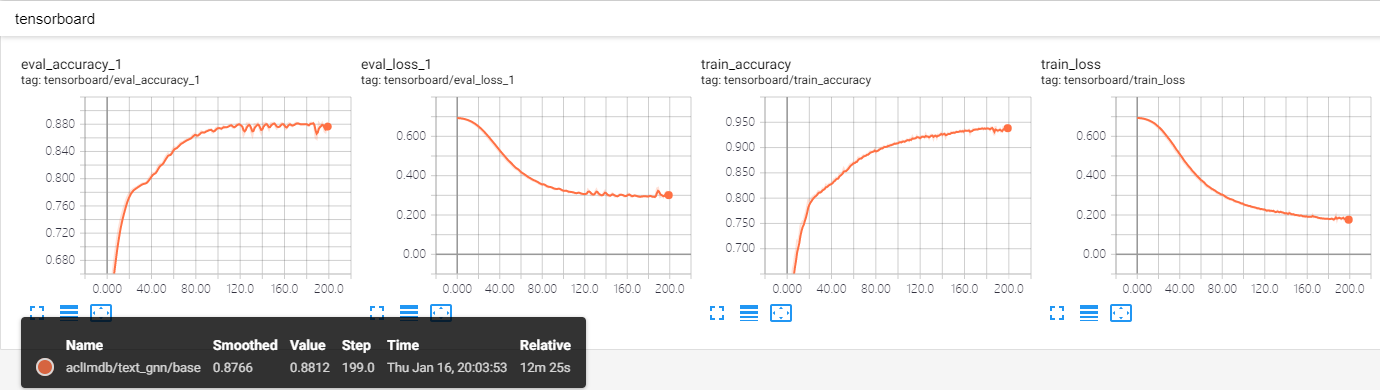
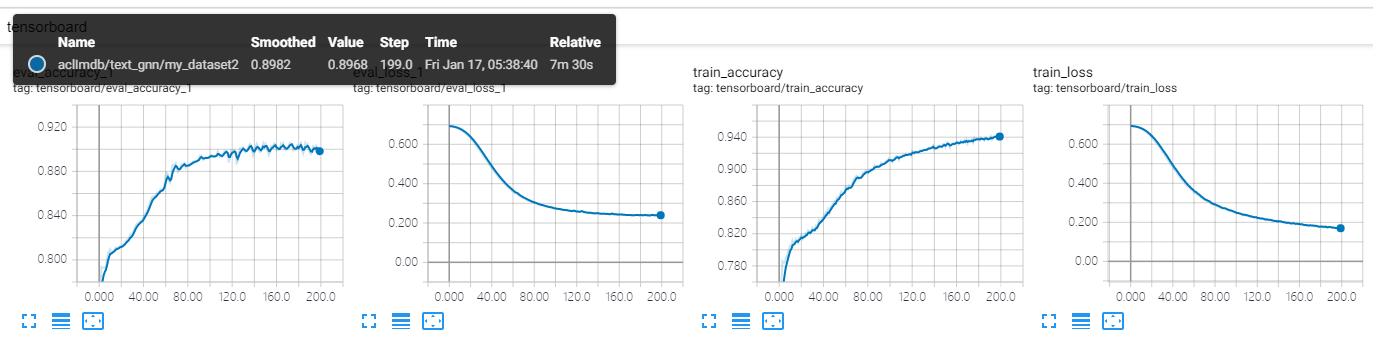
update test bug

diff --git a/build_gnn_en_dataset.py b/build_gnn_en_dataset.py
@@ -15,7 +15,7 @@ min_words_freq = 5  # to remove rare words
 train_scale = 0.9  # slect 90% training set
 window_size = 20  # word co-occurence with context windows
 dataset_fold = Path('/home/yf/dataset/{}/train'.format(dataset_name)).absolute()  # E:/Dataset/{}/train
-output_dir = Path('../dataset').absolute()
+output_dir = Path('dataset').absolute()
 output_path = output_dir / dataset_name
 output_path.mkdir(exist_ok=True, parents=True)
 
@@ -72,7 +72,7 @@ def build_adjacency_matrix(_dataset, num_label):
 
     y = np.zeros((_data_size, num_label))
     for i in range(_data_size):
-        y[i, dataset[i]['label_id']] = 1
+        y[i, _dataset[i]['label_id']] = 1
     return x, y, x_row, x_col, x_data
 
 
@@ -151,6 +151,7 @@ if __name__ == '__main__':
     save_adjacency_matrix(all_y, 'ally')
 
     # Doc word heterogeneous graph
+    # word co-occurence with context windows
     print('build window')
     windows = list()
     for item_ in dataset:
@@ -182,6 +183,7 @@ if __name__ == '__main__':
             for j in range(0, i):
                 word_i_id, word_j_id = vocabulary_dict[window[i]], vocabulary_dict[window[j]]
                 if word_i_id != word_j_id:
+                    # two orders
                     word_pair_count[(word_i_id, word_j_id)] += 1
                     word_pair_count[(word_j_id, word_i_id)] += 1
 

diff --git a/models/text_gnn.py b/models/text_gnn.py
@@ -60,6 +60,10 @@ class TextGNN:
             loss = tf.nn.softmax_cross_entropy_with_logits_v2(logits=gcn2, labels=self.labels)
             loss *= mask  # Mask the output of cross entropy loss
             loss = tf.reduce_mean(loss)
+            for _, var in vars1.items():
+                loss += self.weight_decay * tf.nn.l2_loss(var)
+            for _, var in vars2.items():
+                loss += self.weight_decay * tf.nn.l2_loss(var)
             self.loss = loss
 
         with tf.name_scope('accuracy'):
@@ -153,5 +157,11 @@ class TextGNN:
         feed_dict.update({self.labels: self.data_generator['y_test']})
         feed_dict.update({self.labels_mask: self.data_generator['mask_test']})
         feed_dict.update({self.keep_pro_tensor: 1.0})
-        result, labels = self.sess.run([self.target, self.label], feed_dict=feed_dict)
+        result = list()
+        labels = list()
+        result_, labels_, accuarcy = self.sess.run([self.target, self.label, self.accuracy], feed_dict=feed_dict)
+        for i in range(len(self.data_generator['mask_test'])):
+            if self.data_generator['mask_test'][i]:
+                result.append(result_[i])
+                labels.append(labels_[i])
         return result, labels

diff --git a/build_gnn_cn_dataset.py b/build_gnn_cn_dataset.py
@@ -12,7 +12,7 @@ min_words_freq = 5  # to remove rare words
 train_scale = 0.9  # slect 90% training set
 window_size = 20  # word co-occurence with context windows
 dataset_path = Path('/home/yf/dataset/{}/{}.txt'.format(dataset_name, dataset_name)).absolute()  # ./data/{}/{}.txt
-output_dir = Path('../dataset').absolute()
+output_dir = Path('dataset').absolute()
 output_path = output_dir / dataset_name
 output_path.mkdir(exist_ok=True, parents=True)
 # ['x', 'y', 'tx', 'ty', 'allx', 'ally', 'adj']
@@ -46,6 +46,7 @@ def remove_words(_dataset, _labels):
     vocab = set()
     for i, _item in enumerate(_dataset):
         _words = list()
+        print('remove {}/{}'.format(i, len(_dataset)))
         for _word in _item['words']:
             if _word not in stop_words and global_words_freq[_word] >= min_words_freq:
                 # build vocabulary

diff --git a/data_loader/gnn_data_generator.py b/data_loader/gnn_data_generator.py
@@ -4,6 +4,8 @@ import networkx as nx
 import pickle as pkl
 import scipy.sparse as sp
 
+from utils import csv_utils
+
 
 def parse_index_file(filename):
     """Parse index file."""
@@ -41,8 +43,8 @@ def load_data(path, dataset_name):
 
     features = sp.vstack((allx, tx)).tolil()
     labels = np.vstack((ally, ty))
-
-    train_idx = parse_index_file('{}/ind.{}.train.index'.format(path, dataset_name))
+    train_idx = csv_utils.read('{}/ind.{}.train.csv'.format(path, dataset_name))
+    # train_idx = parse_index_file('{}/ind.{}.train.index'.format(path, dataset_name))
     train_size = len(train_idx)
     test_size = tx.shape[0]
 

diff --git a/build_gnn_cn_voc_dataset.py b/build_gnn_cn_voc_dataset.py
@@ -13,7 +13,7 @@ min_words_freq = 5  # to remove rare words
 train_scale = 0.9  # slect 90% training set
 window_size = 20  # word co-occurence with context windows
 dataset_path = Path('/home/yf/dataset/cnews/cnews.txt').absolute()  # ./data/{}/{}.txt
-output_dir = Path('../dataset').absolute()
+output_dir = Path('dataset').absolute()
 output_path = output_dir / dataset_name
 output_path.mkdir(exist_ok=True, parents=True)
 # ['x', 'y', 'tx', 'ty', 'allx', 'ally', 'adj']

diff --git a/gnn_train.py b/gnn_train.py
@@ -15,7 +15,7 @@ def train(args):
 
 
 if __name__ == "__main__":
-    os.environ['CUDA_VISIBLE_DEVICES'] = '2'
+    os.environ['CUDA_VISIBLE_DEVICES'] = '3'
     config = get_config('gnn/aclImdb')
-    config['tag'] = 'my_dataset'
+    config['tag'] = 'my_dataset2'
     train(config)

diff --git a/utils/csv_utils.py b/utils/csv_utils.py
@@ -7,7 +7,8 @@ def read(path):
         reader = csv.reader(file, delimiter='\t')
         result = list()
         for row in reader:
-            result.extend(row)
+            for col in row:
+                result.append(col)
     return result
 
 

diff --git a/gnn_test.py b/gnn_test.py
@@ -25,5 +25,5 @@ def evaluate_model(args):
 
 if __name__ == '__main__':
     config = get_config('gnn/aclImdb')
-    config['tag'] = 'v2'
+    config['tag'] = 'my_dataset2'
     evaluate_model(config)
